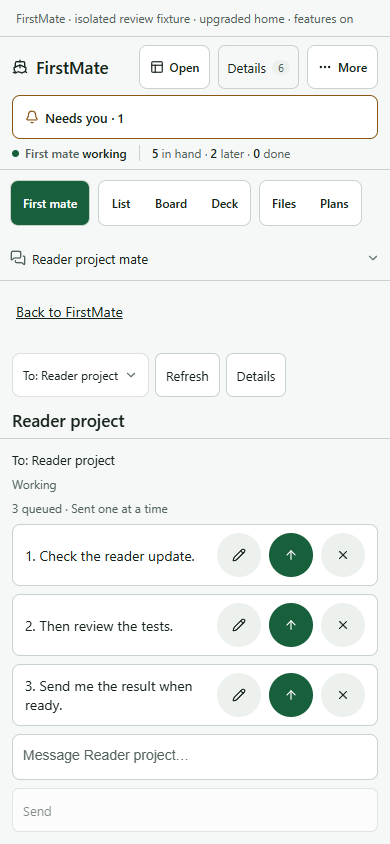
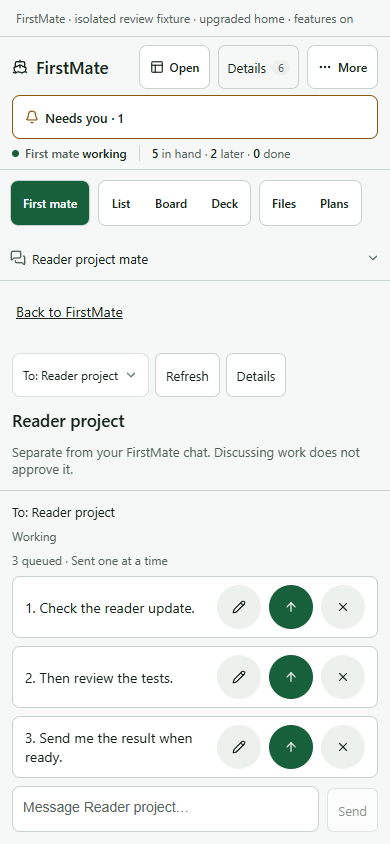
Reserve composer and action space in short chat panes

diff --git a/client/scope-discussion.tsx b/client/scope-discussion.tsx
@@ -162,32 +162,38 @@ export function ScopeDiscussion({ snapshot, offline = false, hostId, theme, comp
         }} />
       </View>)}
     </ScrollView>
-    <ScrollView style={{ flexGrow: 0, flexShrink: 0, maxHeight: "100%", width: "100%", maxWidth: 800, alignSelf: "center" }} contentContainerStyle={{ gap: 8, padding: compact ? 12 : 16, paddingBottom: (compact ? 12 : 16) + keyboardOverlap, borderTopWidth: 1, borderColor: colors.border }} keyboardShouldPersistTaps="handled">
-      <Text style={{ color: colors.foreground, fontSize: 13 }}>To: {recipient?.title ?? "Check the address"}{resolved?.projectIds.length ? ` · context: ${resolved.projectIds.map(id => snapshot.projects.find(p => p.id === id)?.name ?? id).join(", ")}` : ""}{replyTo ? " · replying" : ""}</Text>
-      {recipient ? <Text style={{ color: colors.foregroundMuted, fontSize: 12 }}>{recipient.kind === "general" && generalMate?.id === recipient.target.agentId ? generalMate.status === "running" ? "FirstMate is working" : generalMate.status === "idle" ? "FirstMate is ready" : `FirstMate: ${generalMate.status}` : recipient.session === "not-created" ? "Ready for a new conversation" : recipient.session === "unknown" ? "Status unavailable. Refresh to check again." : recipient.session === "dormant" ? "Not currently working" : recipient.session === "awake" ? "Working" : "Paused"}</Text> : null}
-      {!snapshot.executionEnabled ? <Text style={{ color: colors.foregroundMuted, fontSize: 12 }}>Sending is turned off for this conversation. Your draft is kept.</Text> : unavailableGeneral ? <Text style={{ color: colors.foregroundMuted, fontSize: 12 }}>Set up FirstMate before sending.</Text> : null}
-      {routeError || validationError || sending.error ? <Text accessibilityRole="alert" style={{ color: colors.statusDanger }}>{routeError ?? validationError ?? sending.error}</Text> : null}
-      {unsupported ? <Text style={{ color: colors.foregroundMuted }}>{remote ? "Read-only here. Open the conversation on its original host to continue." : "Routine checks are read-only here. Open the full conversation to inspect their history."}</Text> : null}
-      {scopeUnavailable ? <Text style={{ color: colors.statusWarning }}>This conversation is paused or its owner has changed. Refresh before sending. Your draft is kept.</Text> : null}
-      {refusedDraft ? <Button label="Add refused message to draft" theme={theme} onPress={() => { drafts.set(draftKey, `${refusedDraft}${draft ? `\n\n${draft}` : ""}`); drafts.set(`${draftKey}:refused`, ""); }} /> : null}
-      {replyTo ? <Button label="Cancel reply" theme={theme} onPress={() => setReplyTo(null)} /> : null}
-      {unavailableGeneral ? generalControls : null}
-      {sending.pending && !sending.running ? <Button label="Reconcile original message" theme={theme} onPress={() => { void conversations.refetch(); refresh(); }} /> : null}
-      <ChatQueueRows queue={queue} theme={theme} compact={compact} onConfirmed={clearConfirmed} onEdit={payload => {
-        if (payload.kind !== "scope") return;
-        drafts.set(draftKey, payload.input.addressedText); setReplyTo(payload.input.route.replyTo); composer.current?.focus();
-      }} />
-      <View style={{ flexDirection: "row", borderWidth: 1, borderColor: colors.border, borderRadius: 8, backgroundColor: colors.surface1 }}>
-        <GrowingChatInput ref={composer} theme={theme} compact={compact} accessibilityLabel="Message recipient" multiline value={draft} onChangeText={text => drafts.set(draftKey, text)} placeholder={`Message ${recipient?.title ?? "selected recipient"}…`} />
+    <View style={{ flexShrink: 0, minHeight: 0, maxHeight: "100%", width: "100%", maxWidth: 800, alignSelf: "center", gap: 8, padding: compact ? 12 : 16, paddingBottom: (compact ? 12 : 16) + keyboardOverlap, borderTopWidth: 1, borderColor: colors.border }}>
+      {/* Context and queued rows yield to the input; scrolling never moves Send. */}
+      <ScrollView testID="scope-composer-context" style={{ flexGrow: 0, flexShrink: 1, minHeight: 0 }} contentContainerStyle={{ gap: 8 }} keyboardShouldPersistTaps="handled">
+        <Text style={{ color: colors.foreground, fontSize: 13 }}>To: {recipient?.title ?? "Check the address"}{resolved?.projectIds.length ? ` · context: ${resolved.projectIds.map(id => snapshot.projects.find(p => p.id === id)?.name ?? id).join(", ")}` : ""}{replyTo ? " · replying" : ""}</Text>
+        {recipient ? <Text style={{ color: colors.foregroundMuted, fontSize: 12 }}>{recipient.kind === "general" && generalMate?.id === recipient.target.agentId ? generalMate.status === "running" ? "FirstMate is working" : generalMate.status === "idle" ? "FirstMate is ready" : `FirstMate: ${generalMate.status}` : recipient.session === "not-created" ? "Ready for a new conversation" : recipient.session === "unknown" ? "Status unavailable. Refresh to check again." : recipient.session === "dormant" ? "Not currently working" : recipient.session === "awake" ? "Working" : "Paused"}</Text> : null}
+        {!snapshot.executionEnabled ? <Text style={{ color: colors.foregroundMuted, fontSize: 12 }}>Sending is turned off for this conversation. Your draft is kept.</Text> : unavailableGeneral ? <Text style={{ color: colors.foregroundMuted, fontSize: 12 }}>Set up FirstMate before sending.</Text> : null}
+        {routeError || validationError || sending.error ? <Text accessibilityRole="alert" style={{ color: colors.statusDanger }}>{routeError ?? validationError ?? sending.error}</Text> : null}
+        {unsupported ? <Text style={{ color: colors.foregroundMuted }}>{remote ? "Read-only here. Open the conversation on its original host to continue." : "Routine checks are read-only here. Open the full conversation to inspect their history."}</Text> : null}
+        {scopeUnavailable ? <Text style={{ color: colors.statusWarning }}>This conversation is paused or its owner has changed. Refresh before sending. Your draft is kept.</Text> : null}
+        {refusedDraft ? <Button label="Add refused message to draft" theme={theme} onPress={() => { drafts.set(draftKey, `${refusedDraft}${draft ? `\n\n${draft}` : ""}`); drafts.set(`${draftKey}:refused`, ""); }} /> : null}
+        {replyTo ? <Button label="Cancel reply" theme={theme} onPress={() => setReplyTo(null)} /> : null}
+        {unavailableGeneral ? generalControls : null}
+        {sending.pending && !sending.running ? <Button label="Reconcile original message" theme={theme} onPress={() => { void conversations.refetch(); refresh(); }} /> : null}
+        {reviewedMessage !== null ? <View testID="discussion-first-send-review" style={{ gap: 8 }}>
+          <Text accessibilityRole="header" accessibilityLiveRegion="polite" style={{ color: colors.foreground, fontWeight: "600" }}>Start a conversation with {recipient?.title ?? "selected recipient"}?</Text>
+          <Text style={{ color: colors.foreground }}>This creates a persistent conversation and sends your message. It uses the configured model, permissions and spending limits. Discussing does not approve a plan or authorize its work.</Text>
+          {reviewedMessage !== reviewKey ? <Text accessibilityRole="alert" style={{ color: colors.statusWarning }}>The message or recipient changed. Review it again before sending.</Text> : null}
+          <Button buttonRef={confirmation} label="Start conversation and send" theme={theme} disabled={blocked || reviewedMessage !== reviewKey} onPress={() => sendDraft(true)} />
+          <Button label="Keep editing" theme={theme} onPress={() => { setReviewedMessage(null); composer.current?.focus(); }} />
+        </View> : null}
+        <ChatQueueRows queue={queue} theme={theme} compact={compact} onConfirmed={clearConfirmed} onEdit={payload => {
+          if (payload.kind !== "scope") return;
+          drafts.set(draftKey, payload.input.addressedText); setReplyTo(payload.input.route.replyTo); composer.current?.focus();
+        }} />
+      </ScrollView>
+      <View style={{ flexDirection: "row", alignItems: "flex-end", gap: 8 }}>
+        <View style={{ flex: 1, minWidth: 0, flexDirection: "row", borderWidth: 1, borderColor: colors.border, borderRadius: 8, backgroundColor: colors.surface1 }}>
+          <GrowingChatInput ref={composer} theme={theme} compact={compact} accessibilityLabel="Message recipient" multiline value={draft} onChangeText={text => drafts.set(draftKey, text)} placeholder={`Message ${recipient?.title ?? "selected recipient"}…`} />
+        </View>
+        {!needsCreation && (reviewedMessage === null || reviewedMessage !== reviewKey) ? <Button label={sending.running || queue.sending ? "Sending…" : "Send"} theme={theme} disabled={blocked} onPress={() => { void sendDraft(); }} /> : null}
       </View>
-      {reviewedMessage !== null ? <View testID="discussion-first-send-review" style={{ gap: 8 }}>
-        <Text accessibilityRole="header" accessibilityLiveRegion="polite" style={{ color: colors.foreground, fontWeight: "600" }}>Start a conversation with {recipient?.title ?? "selected recipient"}?</Text>
-        <Text style={{ color: colors.foreground }}>This creates a persistent conversation and sends your message. It uses the configured model, permissions and spending limits. Discussing does not approve a plan or authorize its work.</Text>
-        {reviewedMessage !== reviewKey ? <Text accessibilityRole="alert" style={{ color: colors.statusWarning }}>The message or recipient changed. Review it again before sending.</Text> : null}
-        <Button buttonRef={confirmation} label="Start conversation and send" theme={theme} disabled={blocked || reviewedMessage !== reviewKey} onPress={() => sendDraft(true)} />
-        <Button label="Keep editing" theme={theme} onPress={() => { setReviewedMessage(null); composer.current?.focus(); }} />
-      </View> : null}
-      {reviewedMessage === null || reviewedMessage !== reviewKey ? <Button label={sending.running || queue.sending ? "Sending…" : needsCreation ? "Review first message" : "Send"} theme={theme} disabled={blocked} onPress={() => { void sendDraft(); }} /> : null}
-    </ScrollView>
+      {needsCreation && (reviewedMessage === null || reviewedMessage !== reviewKey) ? <Button label={sending.running || queue.sending ? "Sending…" : "Review first message"} theme={theme} disabled={blocked} onPress={() => { void sendDraft(); }} /> : null}
+    </View>
   </View>;
 }

diff --git a/client/chat-queue.tsx b/client/chat-queue.tsx
@@ -85,12 +85,12 @@ export function ChatQueueRows({ queue, theme, compact = false, onEdit, onConfirm
       backgroundColor: accent ? colors.accent : colors.surface2, opacity: queue.sending ? 0.5 : 1 }}>
     <Icon name={icon} size={14} color={accent ? colors.accentForeground : colors.foreground} />
   </Pressable>;
-  return <View testID="chat-queue" style={{ gap: 8 }}>
+  return <View testID="chat-queue" style={{ gap: 8, minHeight: 0, flexShrink: 1, overflow: "hidden" }}>
     {queue.problem ? <Text accessibilityRole="alert" style={{ color: colors.statusWarning, fontSize: 13 }}>{queue.problem}</Text> : null}
     {queue.unconfirmed ? button("Check message", () => { void queue.check().then(payload => { if (payload) onConfirmed(payload); }); }) : null}
     {queue.items.length ? <>
       <Text accessibilityLiveRegion="polite" style={{ color: colors.foregroundMuted, fontSize: 12 }}>{waiting.length ? `${waiting.length} queued · Sent one at a time` : "Saved messages"}</Text>
-      <ScrollView style={{ maxHeight: 224 }} contentContainerStyle={{ gap: 8 }} keyboardShouldPersistTaps="handled">
+      <ScrollView testID="chat-queue-scroll" style={{ maxHeight: 224, minHeight: 0, flexGrow: 0, flexShrink: 1 }} contentContainerStyle={{ gap: 8 }} keyboardShouldPersistTaps="handled">
         {queue.items.map(item => <View key={item.id} testID="chat-queue-item" style={{ flexDirection: "row", alignItems: "center", justifyContent: "space-between",
           paddingHorizontal: 12, paddingVertical: 8, backgroundColor: colors.surface1, borderRadius: 8, borderWidth: 1, borderColor: colors.border, gap: 8 }}>
           <View style={{ flex: 1, minWidth: 0, gap: 2 }}>

diff --git a/client/chat.tsx b/client/chat.tsx
@@ -294,7 +294,7 @@ function GeneralMateChat({
     const { colors } = theme;
     return {
       pane: { flex: 1, minHeight: 0, backgroundColor: colors.surface0 },
-      transcript: { flex: 1 },
+      transcript: { flex: 1, minHeight: 0 },
       scroller: { flex: 1 },
       transcriptBody: { padding: compact ? 10 : 14, gap: 10, width: "100%" as const, maxWidth: 760, alignSelf: "center" as const },
       captain: {
@@ -314,11 +314,14 @@ function GeneralMateChat({
       error: { color: colors.statusDanger, fontSize: 12 },
       hint: { color: colors.foregroundMuted, fontSize: 12, textAlign: "center" as const, padding: 16 },
       composerFrame: {
+        maxHeight: "100%" as const,
+        minHeight: 0,
+        flexShrink: 1,
         borderTopWidth: 1,
         borderTopColor: colors.border,
         backgroundColor: colors.surface0,
       },
-      composer: { padding: compact ? 8 : 10, gap: 8, width: "100%" as const, maxWidth: 760, alignSelf: "center" as const },
+      composer: { padding: compact ? 8 : 10, gap: compact ? 4 : 8, width: "100%" as const, maxWidth: 760, alignSelf: "center" as const, minHeight: 0, flexShrink: 1 },
       quick: { flexDirection: "row" as const, alignItems: "center" as const, gap: 6 },
       prompts: { flexDirection: "row" as const, alignItems: "center" as const, gap: 6 },
       chips: { flexDirection: "row" as const, flexWrap: "wrap" as const, gap: 6 },

diff --git a/docs/chat-queue/README.md b/docs/chat-queue/README.md
@@ -62,6 +62,10 @@ no composer-level Send now control. Rows follow Paseo's queued-message treatment
 bordered surface cards, two-line 14px previews, muted status labels and circular
 actions. Pencil edits, the accent up arrow sends now, and X removes. Accessible
 action names remain Edit, Send now and Remove; compact layouts keep 44px targets.
+The queue yields height before the input and Send controls. Scoped conversations
+keep Send beside the input and scroll recipient context, first-send review and
+queued rows in the bounded space above it. This keeps messaging available in
+short panes without changing queue admission or delivery.
 
 The queue permits 100 waiting messages and a 128 MiB saved file. Completed receipts
 retain IDs and hashes without attachment bodies. Receipts and completed turn tokens
@@ -79,9 +83,10 @@ are outside the single daemon writer guarantee; damaged state refuses mutation.
 | Interrupted delivery becomes removable without retry | Review probe C; stale-claim, late-response and startup-before-RPC tests |
 | Default on; off sends immediately | `client/settings-screen.test.ts`, queue and checked RPC tests |
 | Existing routing and outboxes | `server/chat-queue-rpc.test.ts`, existing scope runtime and composer tests |
-| Both themes, desktop and phone, before and after | `node docs/chat-queue/render.mjs`: 16 before/after PNGs and 8 interrupted-delivery recovery PNGs plus results in ignored `.local/chat-queue/ui/` |
+| Both themes, desktop and phone, before and after | `node docs/chat-queue/render.mjs`: 24 before/after cases, 16 interrupted-delivery recovery captures and 16 large-queue captures plus results in ignored `.local/chat-queue/ui/` |
 | Plain status copy, no Updating/as-of labels | Browser text and overflow assertions; visual inspection |
 | Queue before composer, stable input, item-only Send now | Browser DOM/bounds assertions across both chats, themes and widths; item-action RPC regression test |
+| Short panes and larger queues | 320×640 and 390×480 alongside 390×844 and 1440×1000; both chats/themes; settled input/Send bounds at empty, three and ten messages, then emptied; scrolling and keyboard item actions stay inside the bounded viewport |
 
 `node docs/chat-queue/reference.mjs /path/to/paseo` renders Paseo's actual
 `QueuedMessageRow` and queue styles read-only beside FirstMate's shared component.

diff --git a/docs/chat-queue/review/README.md b/docs/chat-queue/review/README.md
@@ -20,5 +20,30 @@ positions and Remove action, and uses 44px action targets on compact layouts.
 
 Regenerate all theme/width/surface checks with `node docs/chat-queue/render.mjs`.
 Generate the source comparison with `node docs/chat-queue/reference.mjs /path/to/paseo`.
-Both tools write only to ignored `.local/chat-queue/ui/`; these six selected review
+Both tools write only to ignored `.local/chat-queue/ui/`; these selected review
 images were copied here so PR screenshots remain viewable without a browser upload.
+
+## Short-viewport correction
+
+The independent review of b06dbbd found that three compact queue rows could push
+input and Send below short viewports. The queue and Home footer now yield height;
+scoped context/review/queue content scrolls above a fixed input-and-Send row.
+Compact outer composer gaps leave enough room for a complete 44px queued action.
+Queue card spacing, action names, keyboard behavior and delivery remain unchanged.
+
+| Short viewport | Reviewed head b06dbbd | Corrected layout |
+| --- | --- | --- |
+| Home, 320x640, three queued | ![Before correction](short-before-home.png) | ![After correction](short-after-home.png) |
+| Project, 390x480, three queued | ![Before correction](short-before-project.png) | ![After correction](short-after-project.png) |
+
+The project capture scrolls the bounded upper area to show queued work; input and
+Send remain outside that scroller. Ten-message queues in both themes and surfaces
+are also checked, including full visibility of the focused queued action:
+
+![Ten queued in dark Home](large-dark-small-phone-home.png)
+![Ten queued in dark project chat](large-dark-short-phone-project.png)
+
+[Recorded short-viewport geometry](short-results.json) includes empty, three, ten
+and emptied states, plus the independent review's original and rerun confirmation
+measurements. The accepted status change from PR183 is integrated unchanged; no
+status implementation is duplicated in this correction.
